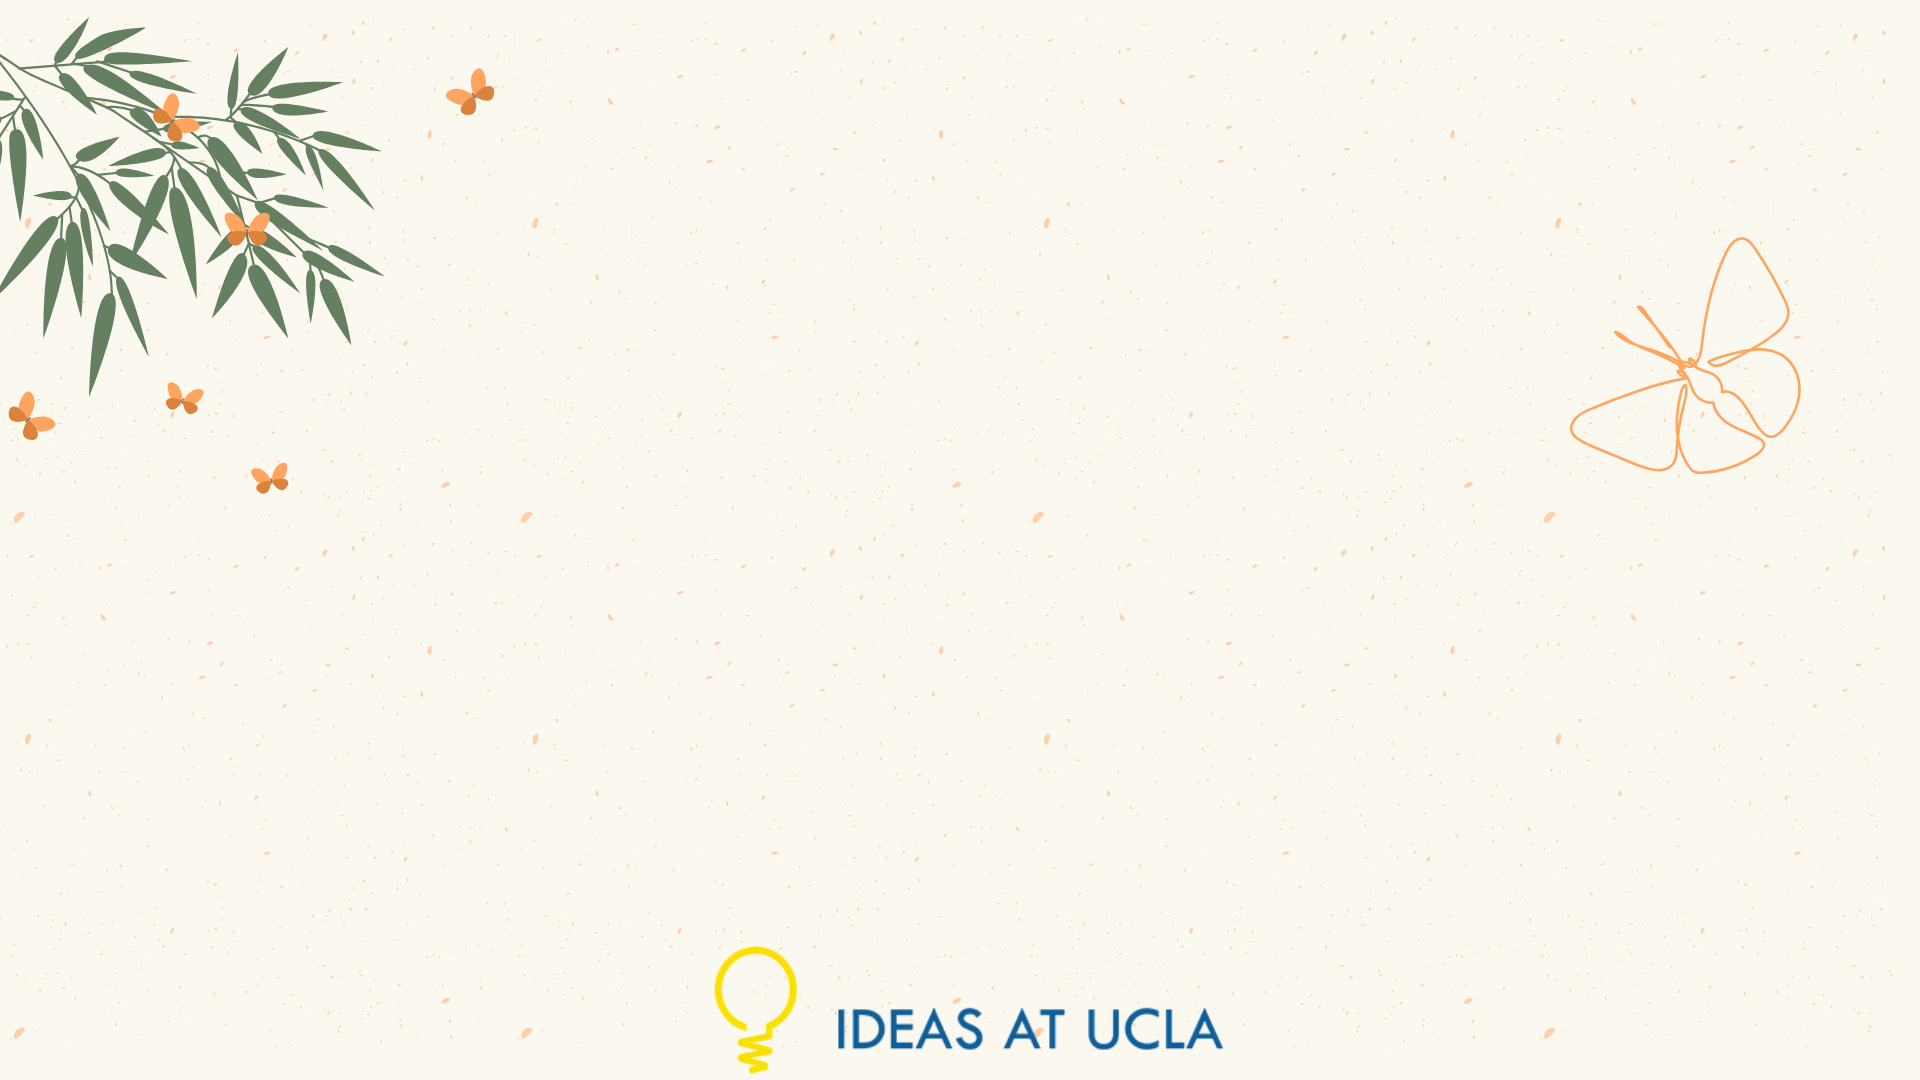
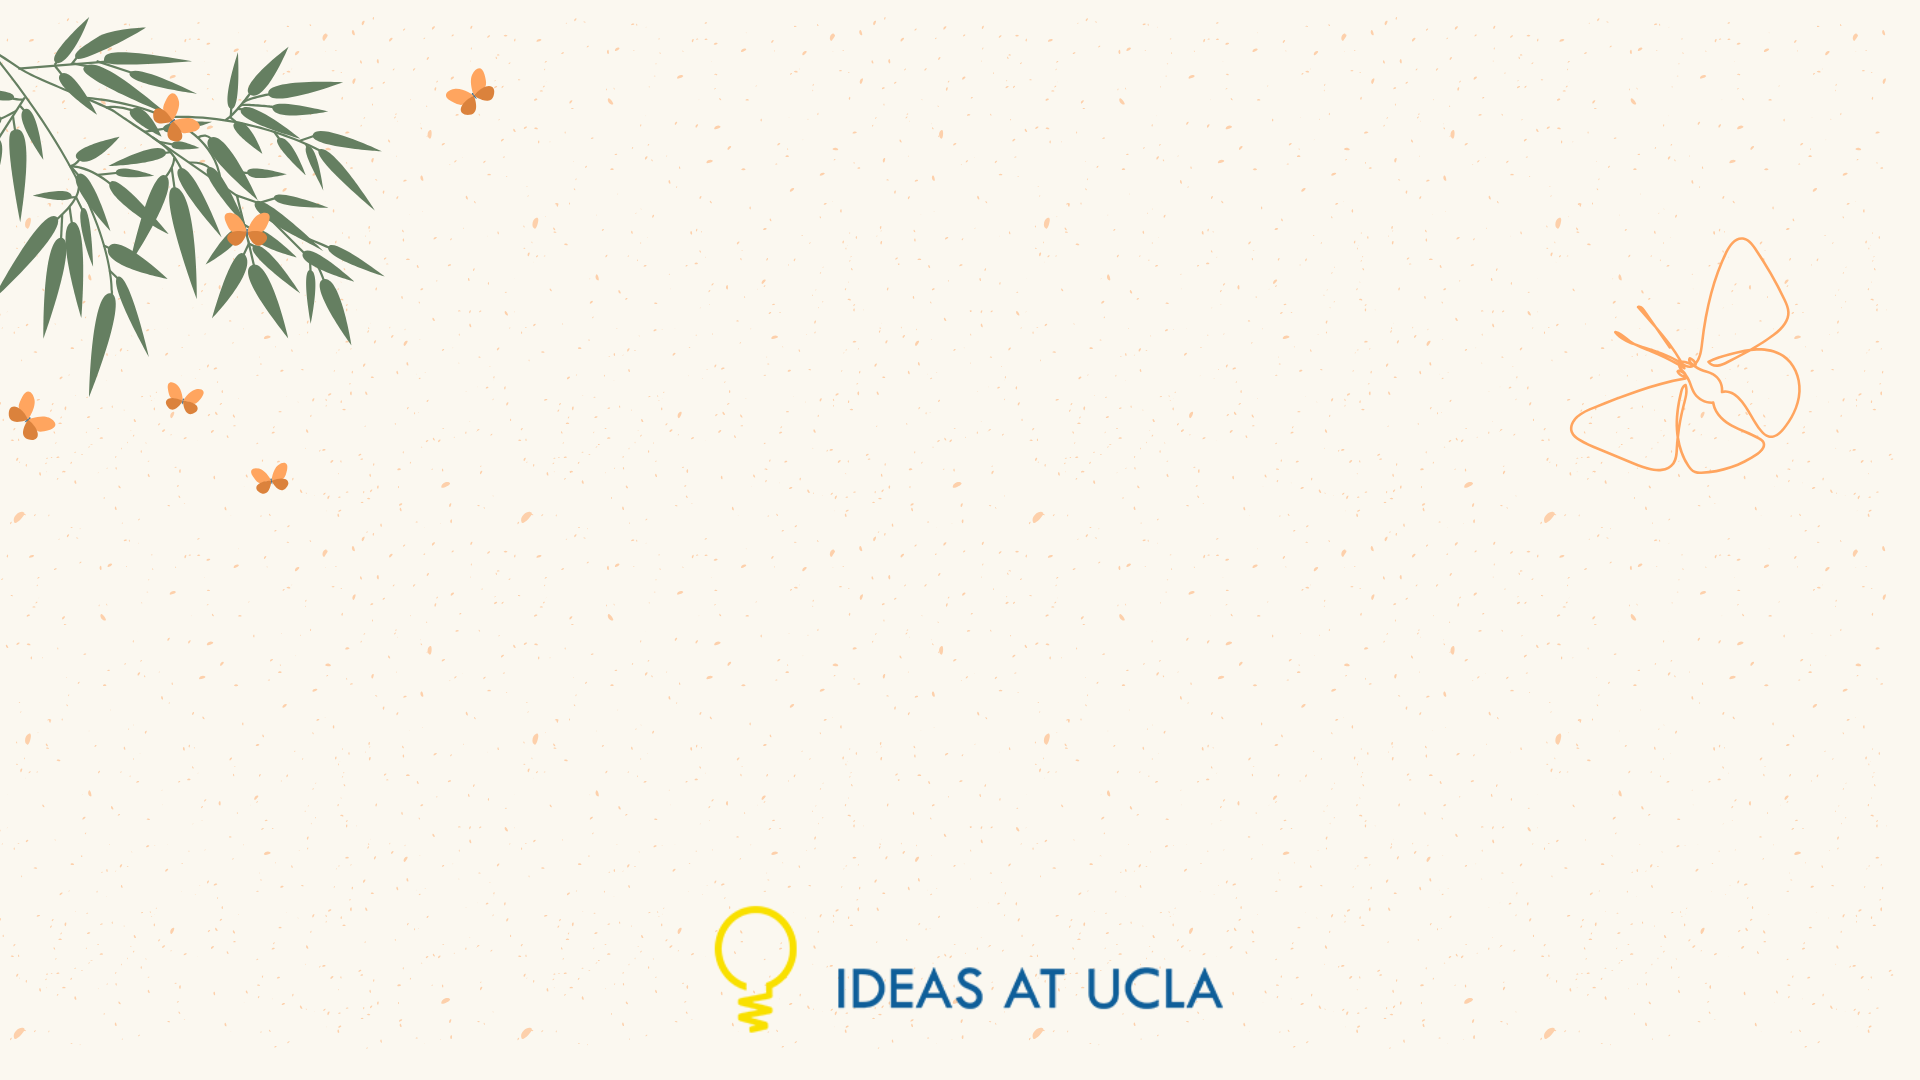
changed background image and side navigation color

Changed region(s): [[0.375, 0.825, 0.6562, 1.0]]

diff --git a/_sass/custom/custom.scss b/_sass/custom/custom.scss
@@ -13,12 +13,12 @@ body {
 }
 
 // .side-bar {
-//     background-color: #fbf8f0;
+//     background-color: rgba(251, 248, 240, 0.9);
 // }
 
 // Optional: Add a semi-transparent overlay to the main content 
 // so your text remains readable against the image.
-.main-content, .side-bar {
+.main-content {
     background-color: rgba(251, 248, 240, 0.8); 
     padding: 20px;
     border-radius: 8px;
